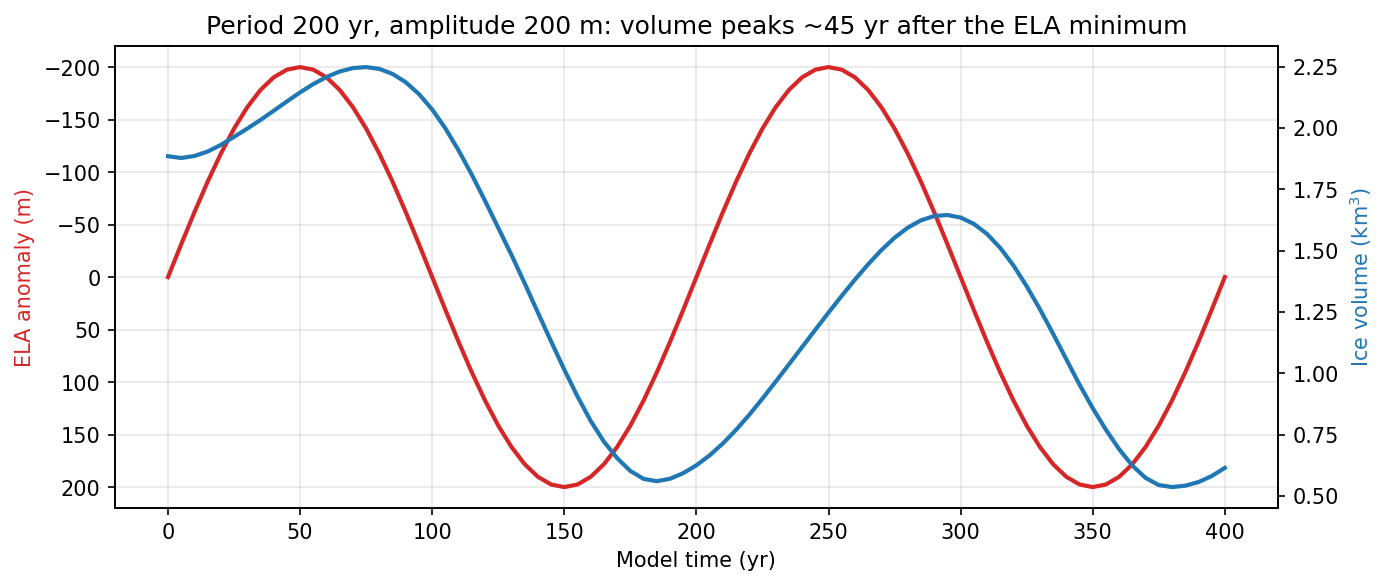
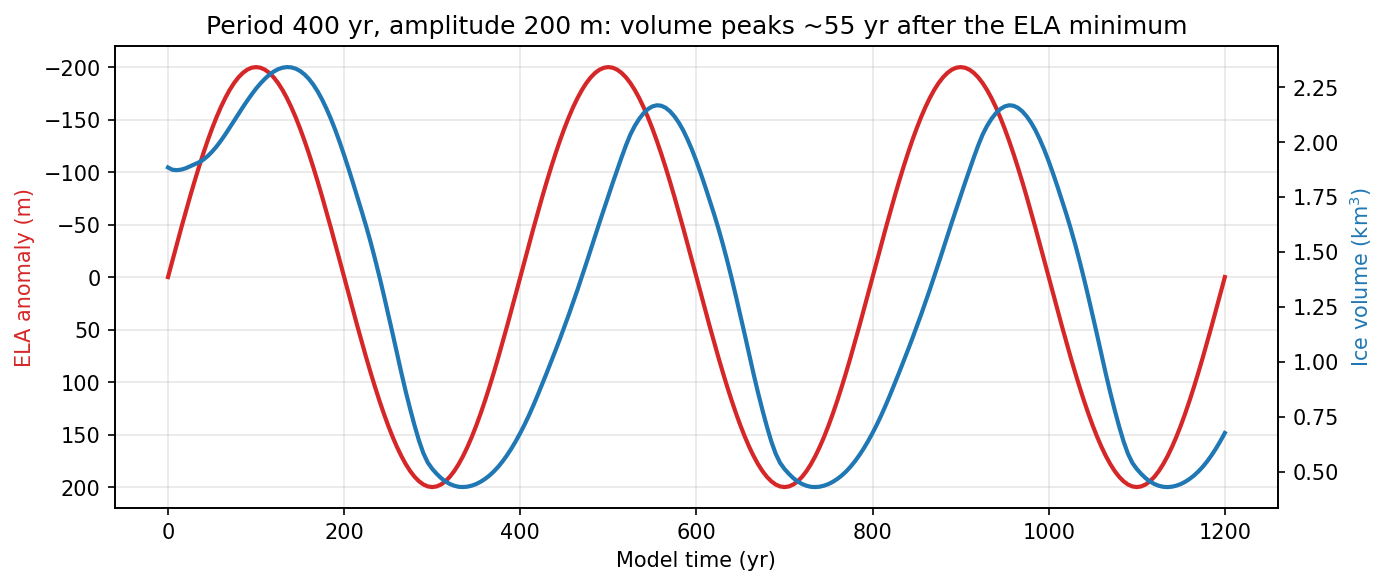
Response time: no formula (lag tends to tau for long periods), default period 400 yr, optional constant-ELA question

diff --git a/utils/helper.py b/utils/helper.py
@@ -905,13 +905,6 @@ def plot_response_time(run_dir):
         amp = vol[late].max() - vol[late].min()
         print(f"Lag between ELA minimum and volume maximum: ~{lag:.0f} yr")
         print(f"Volume oscillation: {amp:.3f} km3 peak to peak, i.e. {100 * amp / vol.mean():.0f} % of the mean volume ({vol.mean():.2f} km3)")
-        # first-order glacier (dV/dt = (V_eq - V)/tau, a low-pass filter): lag = P/(2 pi) * arctan(2 pi tau / P)
-        phase = 2 * np.pi * lag / p['period']
-        if phase < 0.8 * np.pi / 2:          # (unreliable when the lag is close to P/4)
-            print(f"Response time from the lag (first-order model): tau = P/(2 pi) tan(2 pi lag / P) ~ "
-                  f"{p['period'] / (2 * np.pi) * np.tan(phase):.0f} yr")
-        else:
-            print("Lag close to a quarter period: the period is too short to estimate tau, try a longer one")
     plt.show()
 
 

diff --git a/session3/lecture-3-application-and-report.md b/session3/lecture-3-application-and-report.md
@@ -134,10 +134,11 @@ igm_run +experiment=params_response_time
 
 # A) Response time: what to do
 
-1. **Lag** between the ELA minimum and the volume peak ➡ response time $\tau = \frac{P}{2\pi}\tan\left(\frac{2\pi\,\text{lag}}{P}\right)$ (`plot_response_time`)
-2. **Other periods** $P$ (50–800 yr): how do lag and amplitude change? Which $P$ give a reliable $\tau$? Compare with $\tau \approx H/(-b_{terminus})$
+1. **Lag** between the ELA minimum and the volume peak (`plot_response_time`)
+2. **Other periods** $P$ (50–800 yr): how do the lag and the amplitude change? Towards which value does the lag tend for long periods? ➡ **response time** $\tau$. Compare with $\tau \approx H/(-b_{terminus})$
 3. **Size**: does $\tau$ grow with the volume? (compare with other students' glaciers)
-4. **Conclude**: what happens to short climate variations? to long-term trends? What does it mean for 2100?
+4. *Optional*: constant ELA (`amplitude: 0`): how long until the glacier has done ~2/3 of its adjustment?
+5. **Conclude**: what happens to short climate variations? to long-term trends? What does it mean for 2100?
 
 ---
 
